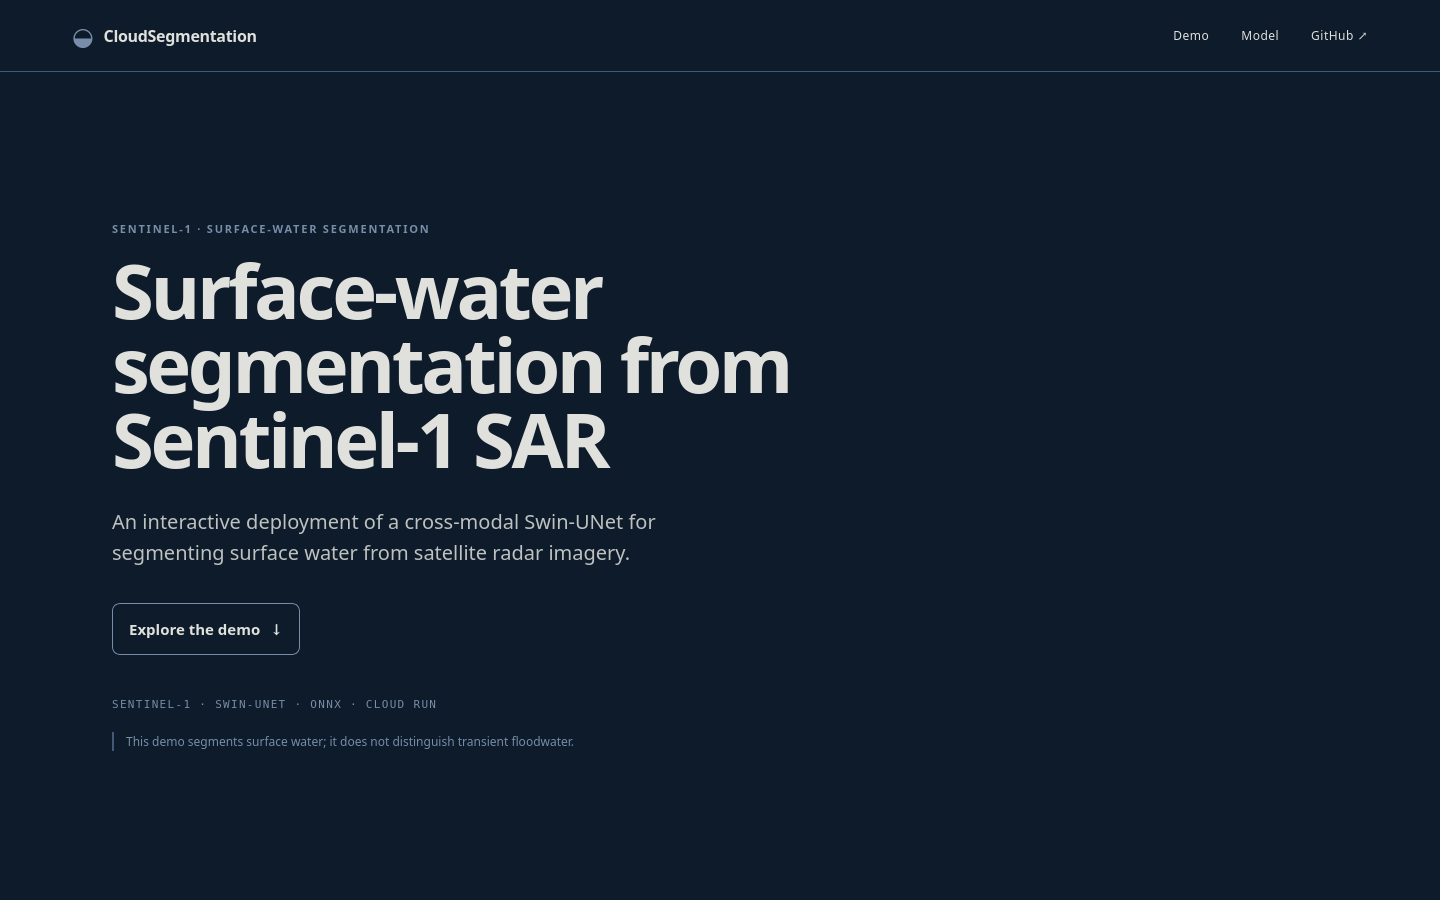
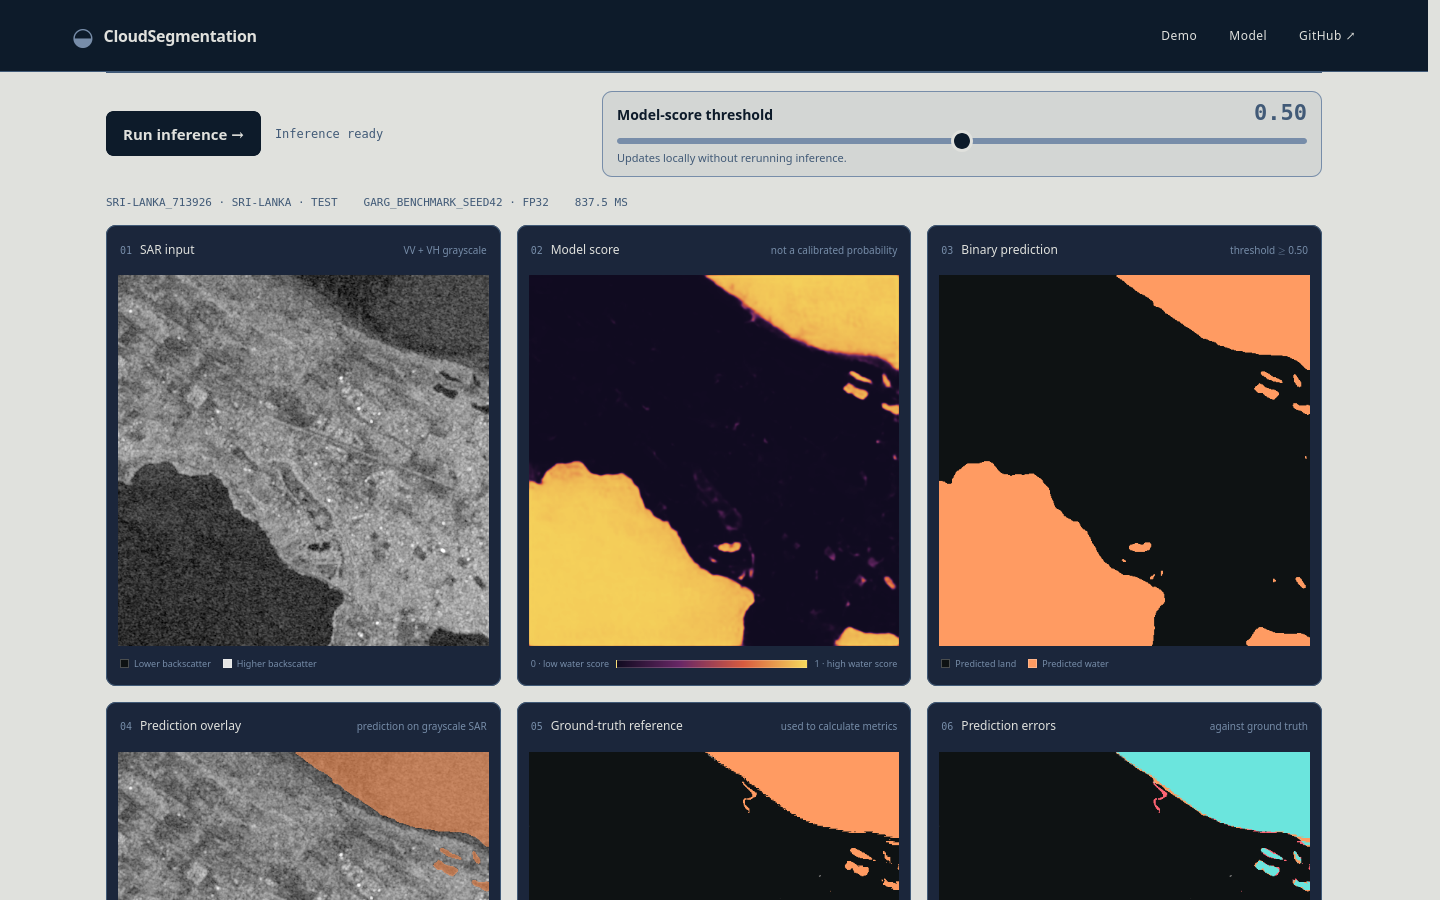
Update portfolio architecture and inference screenshot

diff --git a/README.md b/README.md
@@ -8,7 +8,7 @@
 
 CloudSegmentation turns an existing remote-sensing research model into a small production-style inference service. The project covers model selection, ONNX export and fidelity checks, API serving, browser-side threshold exploration, containerization, private artifact handling, deployment, and operational verification.
 
-![CloudSegmentation interactive demo](docs/assets/demo.png)
+![CloudSegmentation inference demo](docs/assets/demo.png)
 
 > **Scope:** Sen1Floods11 provides an all-water reference mask on flood-event scenes. This project therefore demonstrates **surface-water segmentation**, not validated transient-flood mapping, calibrated risk probabilities, or operational flood-response readiness.
 
@@ -30,14 +30,17 @@ The local and Cloud Run latency numbers come from different environments and pro
 
 ## Architecture
 
-```mermaid
-flowchart LR
-    B[Browser UI] -->|GET /samples, POST /predict| R[Cloud Run\nFastAPI service]
-    R --> O[ONNX Runtime\nSwin-UNet]
-    R --> C[Per-sample response cache\n+ rate limiter]
-    G[(Private GCS\nmodel + curated samples)] -->|startup staging\nsize + SHA-256 verification| R
-    R -->|score preview + reference data| B
-    B -->|client-side thresholding| V[Prediction, overlay\nand metrics]
+```text
+Browser
+   │
+   ▼
+Cloud Run
+FastAPI + frontend
+   │
+   ├── ONNX Runtime → Swin-UNet
+   │
+   └── private GCS
+       model + curated samples
 ```
 
 Production uses one CPU, 2 GiB memory, request-based billing, minimum instances 0, maximum instances 1, and container concurrency 1. The browser never receives the private ONNX model or source sample objects.
